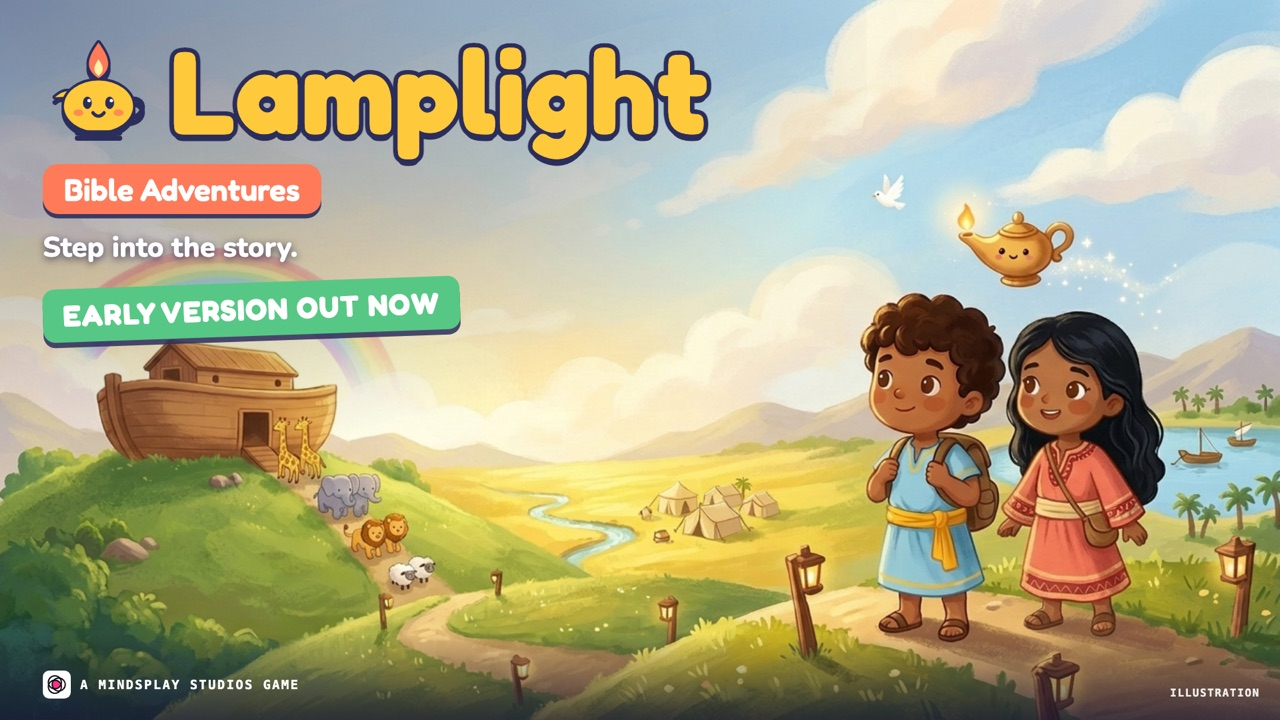
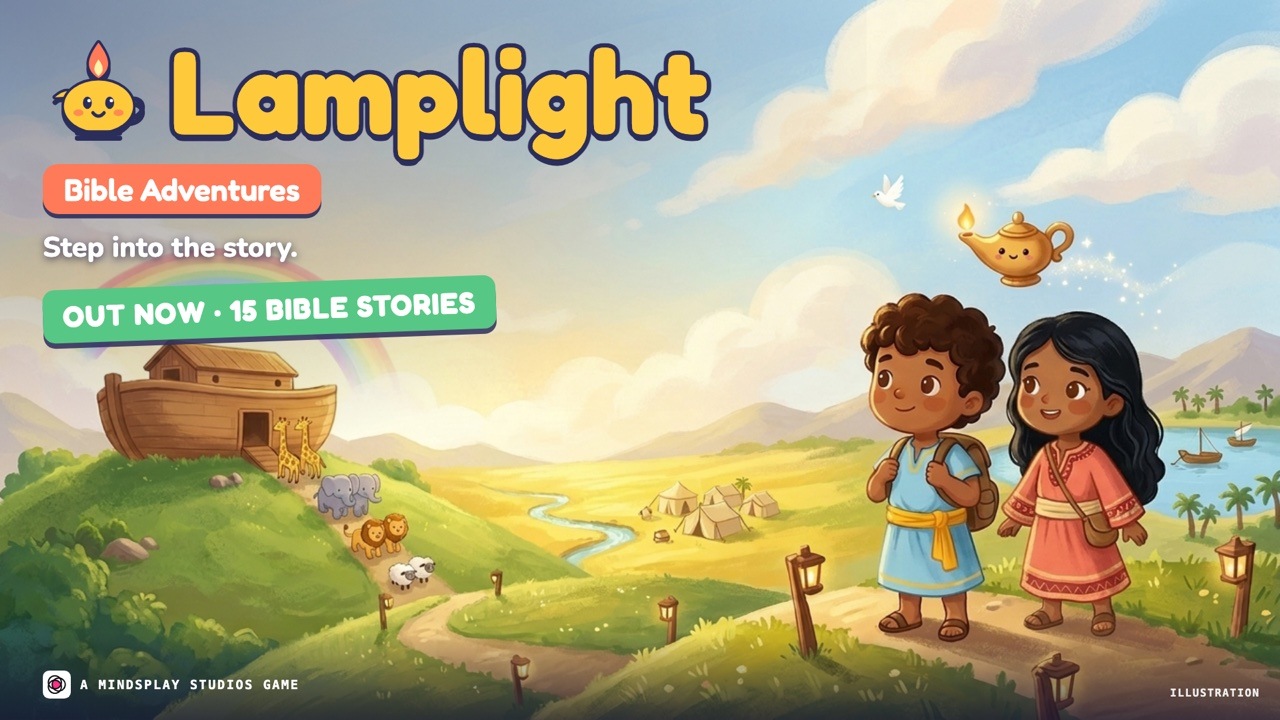
Lamplight 1.0: fifteen stories, out now

Changed region(s): [[0.0312, 0.3667, 0.4062, 0.4889]]

diff --git a/lamplight.html b/lamplight.html
@@ -4,7 +4,7 @@
 <meta charset="utf-8">
 <meta name="viewport" content="width=device-width, initial-scale=1, viewport-fit=cover">
 <title>Lamplight: Bible Adventures game for kids | MindsPlay Studios</title>
-<meta name="description" content="Lamplight: Bible Adventures. Step into the story. An open-world 3D Bible adventure for ages 6 to 12 on Mac and Windows, with six stories, every line read aloud, stickers and memory verses. A MindsPlay Studios game.">
+<meta name="description" content="Lamplight: Bible Adventures. Step into the story. An open-world 3D Bible adventure for ages 6 to 12 on Mac and Windows, with fifteen stories, every line read aloud, stickers and memory verses. A MindsPlay Studios game.">
 <link rel="icon" href="img/icons/lamplight.png">
 <link rel="stylesheet" href="https://fonts.googleapis.com/css2?family=Fredoka:wght@500;600;700&family=Nunito:wght@400;600;700;800&display=swap">
 <style>
@@ -185,7 +185,7 @@ footer .flinks { display:flex; flex-wrap:wrap; gap:16px; font-weight:700 }
 <meta property="og:site_name" content="MindsPlay Studios">
 <meta property="og:url" content="https://mindsplaystudiogh.com/lamplight.html">
 <meta property="og:title" content="Lamplight: Bible Adventures game for kids | MindsPlay Studios">
-<meta property="og:description" content="Lamplight: Bible Adventures. Step into the story. An open-world 3D Bible adventure for ages 6 to 12 on Mac and Windows, with six stories, every line read aloud, stickers and memory verses. A MindsPlay Studios game.">
+<meta property="og:description" content="Lamplight: Bible Adventures. Step into the story. An open-world 3D Bible adventure for ages 6 to 12 on Mac and Windows, with fifteen stories, every line read aloud, stickers and memory verses. A MindsPlay Studios game.">
 <meta property="og:image" content="https://mindsplaystudiogh.com/img/og-lamplight.jpg">
 <meta property="og:image:width" content="1200">
 <meta property="og:image:height" content="630">
@@ -193,9 +193,9 @@ footer .flinks { display:flex; flex-wrap:wrap; gap:16px; font-weight:700 }
 <meta property="og:locale" content="en_GH">
 <meta name="twitter:card" content="summary_large_image">
 <meta name="twitter:title" content="Lamplight: Bible Adventures game for kids | MindsPlay Studios">
-<meta name="twitter:description" content="Lamplight: Bible Adventures. Step into the story. An open-world 3D Bible adventure for ages 6 to 12 on Mac and Windows, with six stories, every line read aloud, stickers and memory verses. A MindsPlay Studios game.">
+<meta name="twitter:description" content="Lamplight: Bible Adventures. Step into the story. An open-world 3D Bible adventure for ages 6 to 12 on Mac and Windows, with fifteen stories, every line read aloud, stickers and memory verses. A MindsPlay Studios game.">
 <meta name="twitter:image" content="https://mindsplaystudiogh.com/img/og-lamplight.jpg">
-<script type="application/ld+json">{"@context": "https://schema.org", "@type": "VideoGame", "name": "Lamplight: Bible Adventures", "url": "https://mindsplaystudiogh.com/lamplight.html", "image": "https://mindsplaystudiogh.com/img/og-lamplight.jpg", "description": "Lamplight: Bible Adventures. Step into the story. An open-world 3D Bible adventure for ages 6 to 12 on Mac and Windows, with six stories, every line read aloud, stickers and memory verses. A MindsPlay Studios game.", "genre": ["Educational", "Bible stories"], "about": "Bible stories", "inLanguage": "en", "typicalAgeRange": "6-12", "audience": {"@type": "PeopleAudience", "suggestedMinAge": 6, "suggestedMaxAge": 12}, "publisher": {"@type": "Organization", "name": "MindsPlay Studios", "url": "https://mindsplaystudiogh.com/"}, "creativeWorkStatus": "In development", "gamePlatform": ["Windows", "macOS"]}</script>
+<script type="application/ld+json">{"@context": "https://schema.org", "@type": "VideoGame", "name": "Lamplight: Bible Adventures", "url": "https://mindsplaystudiogh.com/lamplight.html", "image": "https://mindsplaystudiogh.com/img/og-lamplight.jpg", "description": "Lamplight: Bible Adventures. Step into the story. An open-world 3D Bible adventure for ages 6 to 12 on Mac and Windows, with fifteen stories, every line read aloud, stickers and memory verses. A MindsPlay Studios game.", "genre": ["Educational", "Bible stories"], "about": "Bible stories", "inLanguage": "en", "typicalAgeRange": "6-12", "audience": {"@type": "PeopleAudience", "suggestedMinAge": 6, "suggestedMaxAge": 12}, "publisher": {"@type": "Organization", "name": "MindsPlay Studios", "url": "https://mindsplaystudiogh.com/"}, "creativeWorkStatus": "In development", "gamePlatform": ["Windows", "macOS"]}</script>
 </head>
 <body>
 
@@ -203,7 +203,7 @@ footer .flinks { display:flex; flex-wrap:wrap; gap:16px; font-weight:700 }
   <div class="wrap">
     <a class="back" href="index.html" aria-label="Back to MindsPlay Studios">← <span>MindsPlay</span></a>
     <a class="brand" href="#top" aria-label="Lamplight: Bible Adventures, back to top"><img src="img/lamplight/logo.png" alt="Lamplight: Bible Adventures" width="640" height="173"></a>
-    <nav aria-label="Lamplight"><a href="#about">The game</a><a href="#stories">Six stories</a><a href="#play">Try it</a><a href="#prices">Prices</a><a href="account.html">Parents</a></nav>
+    <nav aria-label="Lamplight"><a href="#about">The game</a><a href="#stories">15 stories</a><a href="#play">Try it</a><a href="#prices">Prices</a><a href="account.html">Parents</a></nav>
     <a class="btn sun" href="player.html#new">Join<span class="long">&nbsp;as a player</span></a>
   </div>
 </header>
@@ -215,13 +215,13 @@ footer .flinks { display:flex; flex-wrap:wrap; gap:16px; font-weight:700 }
     <a class="endorse" href="index.html"><img src="img/mark.svg" alt="" width="22" height="22">A MindsPlay Studios game</a>
     <span class="status" id="status" hidden></span>
     <h1 id="h1">Step into <span>the story.</span></h1>
-    <p class="lede">Lamplight is an open-world 3D Bible adventure for children aged 6 to 12. Walk into six Bible stories, meet the people in them and help with the very things each story describes. Lumi, a little clay lamp, lights the way and reads every line aloud.</p>
+    <p class="lede">Lamplight is an open-world 3D Bible adventure for children aged 6 to 12. Walk into fifteen Bible stories, meet the people in them and help with the very things each story describes. Lumi, a little clay lamp, lights the way and reads every line aloud.</p>
     <div class="ctas">
       <a class="btn sun" href="lamplight-play.html">Play free in your browser</a>
       <a class="btn plain" href="lamplight-download.html">Download for Windows / Mac</a>
       <a class="btn plain" href="player.html#new">Make my player account</a>
     </div>
-    <div class="facts"><span><b>6</b> Bible stories</span><span><b>6–12</b> years</span><span><b>Mac</b> and <b>Windows</b></span><span><b>0</b> ads</span></div>
+    <div class="facts"><span><b>15</b> Bible stories</span><span><b>6–12</b> years</span><span><b>Mac</b> and <b>Windows</b></span><span><b>0</b> ads</span></div>
   </div>
 </section>
 
@@ -241,10 +241,10 @@ footer .flinks { display:flex; flex-wrap:wrap; gap:16px; font-weight:700 }
     <aside class="card" aria-label="Lamplight at a glance">
       <div class="ttl"><img src="img/icons/lamplight.png" alt="" width="64" height="64"><div><h3>Lamplight</h3><p>Open-world Bible adventure</p></div></div>
       <div class="stats">
-        <div class="stat"><b>6</b><span>Bible stories</span></div>
-        <div class="stat"><b>2</b><span>chapters</span></div>
-        <div class="stat"><b>6</b><span>stickers to collect</span></div>
-        <div class="stat"><b>6</b><span>memory verses</span></div>
+        <div class="stat"><b>15</b><span>Bible stories</span></div>
+        <div class="stat"><b>2–3</b><span>hours of play</span></div>
+        <div class="stat"><b>15</b><span>stickers to collect</span></div>
+        <div class="stat"><b>15</b><span>memory verses</span></div>
       </div>
       <div class="chips"><span>Ages 6–12</span><span>Windows</span><span>Mac</span><span>Read aloud</span><span>Hymn-tune music</span><span>No ads</span></div>
       <a class="btn sun" href="player.html#new">Make my player account</a>
@@ -257,8 +257,8 @@ footer .flinks { display:flex; flex-wrap:wrap; gap:16px; font-weight:700 }
   <div class="wrap">
     <div class="head">
       <span class="eyebrow">The stories</span>
-      <h2 id="stories-h">Six stories in two chapters.</h2>
-      <p>Each story is told closely from the Bible in simple words. Choose a story to see it in the game.</p>
+      <h2 id="stories-h">Fifteen stories to step into.</h2>
+      <p>Each story is told closely from the Bible in simple words, and Lumi asks two questions at the end. Choose one of the first six to see it in the game.</p>
     </div>
     <div class="chapters" role="tablist" aria-label="Stories" id="tabs">
       <div class="chapter"><h3>Chapter 1</h3><div class="tabs">
@@ -314,6 +314,7 @@ footer .flinks { display:flex; flex-wrap:wrap; gap:16px; font-weight:700 }
       <div class="sticker"><i style="background:#3E6FB5;color:#fff">★</i>Peace sticker</div>
       <blockquote>“Peace! Be still!” The wind ceased, and there was a great calm.<cite>Mark 4:39</cite></blockquote></div>
     </article>
+    <p style="margin-top:22px"><b>And nine more in version 1.0:</b> Baby Moses, Joshua and Jericho, Samuel Hears God’s Call, Ruth and Naomi, The First Christmas, The Wise Builder, The Good Samaritan, Zacchaeus and The Lost Coin.</p>
   </div>
 </section>
 
@@ -385,7 +386,7 @@ footer .flinks { display:flex; flex-wrap:wrap; gap:16px; font-weight:700 }
       <h2 id="prices-h">Who is it for?</h2>
     </div>
     <div class="who">
-      <article><span class="role" style="background:var(--sky)">Player</span><h3>Your own adventure</h3><ul><li>Make your player account and add Lamplight to your games</li><li>Sign in with your name and secret pictures</li><li>Collect all six stickers and memory verses</li><li>Ask a parent to unlock it for you</li></ul><a class="btn sun" href="player.html#new">Make my player account</a><a class="link" href="player.html#signin">Already a player? Sign in</a></article>
+      <article><span class="role" style="background:var(--sky)">Player</span><h3>Your own adventure</h3><ul><li>Make your player account and add Lamplight to your games</li><li>Sign in with your name and secret pictures</li><li>Collect all fifteen stickers and memory verses</li><li>Ask a parent to unlock it for you</li></ul><a class="btn sun" href="player.html#new">Make my player account</a><a class="link" href="player.html#signin">Already a player? Sign in</a></article>
       <article><span class="role" style="background:var(--sun)">Parent</span><h3>Home access</h3><div class="price">GHS 49 <small>/ month</small></div><ul><li>First week free, then pay by Mobile Money or card</li><li>Or GHS 490 a year, less for each extra child</li><li>Add Lamplight for each child from one parent account</li><li>No ads, no in-game purchases, no strangers</li></ul><a class="btn sun" href="account.html">Add it to your child’s games</a></article>
       <article><span class="role" style="background:var(--leaf)">Schools and churches</span><h3>Free preview</h3><div class="price">Free <small>preview planned</small></div><ul><li>A free preview for schools and churches is planned</li><li>Fits Religious and Moral Education, Sunday school, children’s services and holiday clubs</li><li>We can visit, set it up and show you the game</li><li>Tell us which Bible stories to add next</li></ul><a class="btn sun" href="mailto:hello@mindsplaystudiogh.com?subject=Lamplight%20for%20our%20school%20or%20church">Talk to us by email</a><a class="btn plain" href="https://wa.me/233248932204" target="_blank" rel="noopener">Talk to us on WhatsApp</a></article>
     </div>

diff --git a/lamplight-play.html b/lamplight-play.html
@@ -4,7 +4,7 @@
 <meta charset="utf-8">
 <meta name="viewport" content="width=device-width, initial-scale=1, viewport-fit=cover">
 <title>Play the free demo · Lamplight</title>
-<meta name="description" content="Play Lamplight in your browser. Explore six Bible stories with Lumi, a little lamp who reads every line aloud: from Noah’s Ark to Jesus Calms the Storm. Help the people of each story, then earn a memory verse and a sticker. The first two stories are free for everyone; sign in inside the game with your MindsPlay class code for all six.">
+<meta name="description" content="Play Lamplight in your browser. Walk through fifteen Bible stories in one bright open world with Lumi, a little lamp who reads every line aloud. Help Noah fill the ark, march around Jericho, follow the star to Bethlehem and more, then earn a sticker and a memory verse for each story. The first two stories are free for everyone; sign in inside the game with your MindsPlay class code for all fifteen.">
 <link rel="icon" href="img/icons/lamplight.png">
 <link rel="stylesheet" href="https://fonts.googleapis.com/css2?family=Baloo+2:wght@600;800&family=Lexend:wght@400;500;600&family=Silkscreen&display=swap">
 <link rel="stylesheet" href="app.css">
@@ -26,7 +26,7 @@
 <meta property="og:site_name" content="MindsPlay Studios">
 <meta property="og:url" content="https://mindsplaystudiogh.com/lamplight-play.html">
 <meta property="og:title" content="Play the free demo · Lamplight">
-<meta property="og:description" content="Play Lamplight in your browser. Explore six Bible stories with Lumi, a little lamp who reads every line aloud: from Noah’s Ark to Jesus Calms the Storm. Help the people of each story, then earn a memory verse and a sticker. The first two stories are free for everyone; sign in inside the game with your MindsPlay class code for all six.">
+<meta property="og:description" content="Play Lamplight in your browser. Walk through fifteen Bible stories in one bright open world with Lumi, a little lamp who reads every line aloud. Help Noah fill the ark, march around Jericho, follow the star to Bethlehem and more, then earn a sticker and a memory verse for each story. The first two stories are free for everyone; sign in inside the game with your MindsPlay class code for all fifteen.">
 <meta property="og:image" content="https://mindsplaystudiogh.com/img/og-lamplight.jpg">
 <meta property="og:image:width" content="1200">
 <meta property="og:image:height" content="630">
@@ -34,7 +34,7 @@
 <meta property="og:locale" content="en_GH">
 <meta name="twitter:card" content="summary_large_image">
 <meta name="twitter:title" content="Play the free demo · Lamplight">
-<meta name="twitter:description" content="Play Lamplight in your browser. Explore six Bible stories with Lumi, a little lamp who reads every line aloud: from Noah’s Ark to Jesus Calms the Storm. Help the people of each story, then earn a memory verse and a sticker. The first two stories are free for everyone; sign in inside the game with your MindsPlay class code for all six.">
+<meta name="twitter:description" content="Play Lamplight in your browser. Walk through fifteen Bible stories in one bright open world with Lumi, a little lamp who reads every line aloud. Help Noah fill the ark, march around Jericho, follow the star to Bethlehem and more, then earn a sticker and a memory verse for each story. The first two stories are free for everyone; sign in inside the game with your MindsPlay class code for all fifteen.">
 <meta name="twitter:image" content="https://mindsplaystudiogh.com/img/og-lamplight.jpg">
 </head>
 <body>
@@ -42,7 +42,7 @@
   <div class="stack" style="gap:8px">
     <span class="tag">Free demo · no download</span>
     <h1>Play Lamplight in your browser</h1>
-    <p class="lead">Explore six Bible stories with Lumi, a little lamp who reads every line aloud: from Noah’s Ark to Jesus Calms the Storm. Help the people of each story, then earn a memory verse and a sticker. The first two stories are free for everyone; sign in inside the game with your MindsPlay class code for all six. Best on a laptop or desktop with a keyboard and mouse.</p>
+    <p class="lead">Walk through fifteen Bible stories in one bright open world with Lumi, a little lamp who reads every line aloud. Help Noah fill the ark, march around Jericho, follow the star to Bethlehem and more, then earn a sticker and a memory verse for each story. The first two stories are free for everyone; sign in inside the game with your MindsPlay class code for all fifteen. Best on a laptop or desktop with a keyboard and mouse.</p>
   </div>
   <div class="stage" id="stage">
     <canvas id="unity" tabindex="-1" aria-label="Lamplight game"></canvas>
@@ -57,23 +57,24 @@
   </div>
   <ul class="keys">
     <li><b>Move</b>WASD or arrow keys</li>
-    <li><b>Run / jump</b>Shift / Space</li>
-    <li><b>Talk, pick up, share</b>E or Enter</li>
-    <li><b>Look</b>Q and R, or right mouse button</li>
+    <li><b>Look</b>Move the mouse</li>
+    <li><b>Talk and use</b>E or click</li>
+    <li><b>Jump</b>Space</li>
+    <li><b>Answer Lumi’s questions</b>1, 2 or 3</li>
     <li><b>Pause</b>P</li>
   </ul>
   <div class="grid2">
     <a class="card" href="lamplight-download.html?from=play" style="text-decoration:none;color:inherit"><h3>Download Lamplight</h3><p class="muted">The same game for Windows and Mac. Runs smoother and plays without internet.</p></a>
     <a class="card" href="lamplight.html" style="text-decoration:none;color:inherit"><h3>About Lamplight</h3><p class="muted">What it is, who it is for and what it teaches.</p></a>
   </div>
-  <p class="small muted">This is an early demo and we are still building. Tell us what you think: <a href="mailto:hello@mindsplaystudiogh.com?subject=Lamplight">hello@mindsplaystudiogh.com</a></p>
+  <p class="small muted">Tell us what you think: <a href="mailto:hello@mindsplaystudiogh.com?subject=Lamplight">hello@mindsplaystudiogh.com</a></p>
 </main>
 <script src="app.js"></script>
 <script>
 topBar('<a href="lamplight.html" class="hide-sm">About Lamplight</a><a href="lamplight-download.html?from=play">Download</a><a href="index.html#games">All games</a>', 'Lamplight');
 const BUILD = API + '/play/lamplight/Build/';
 // Changes with every new build so browsers never reuse an old copy of the game files.
-const V = '?v=202611270317';
+const V = '?v=202611270506';
 const mobile = /Android|iPhone|iPad|iPod/i.test(navigator.userAgent);
 if (mobile) $('#covertext').textContent = 'Lamplight is made for computers. On a phone the demo may be slow and needs a keyboard. For the best time, open this page on a laptop or desktop.';
 
@@ -81,7 +82,7 @@ let instance;
 $('#start').addEventListener('click', () => {
   $('#start').hidden = true;
   $('#meter').hidden = false;
-  $('#covertext').textContent = 'Loading Lamplight… (about 87 MB the first time, then it’s saved)';
+  $('#covertext').textContent = 'Loading Lamplight… (about 100 MB the first time, then it’s saved)';
   const s = document.createElement('script');
   s.src = BUILD + 'lamplight.loader.js' + V;
   s.onerror = () => { $('#err').textContent = 'The demo couldn’t load. Check your connection and refresh the page.'; };

diff --git a/lamplight-download.html b/lamplight-download.html
@@ -4,7 +4,7 @@
 <meta charset="utf-8">
 <meta name="viewport" content="width=device-width, initial-scale=1, viewport-fit=cover">
 <title>Download Lamplight · MindsPlay Studios</title>
-<meta name="description" content="Download Lamplight: Bible Adventures for Windows or Mac. Six Bible stories to explore, with every line read aloud.">
+<meta name="description" content="Download Lamplight: Bible Adventures for Windows or Mac. Fifteen Bible stories to explore, with every line read aloud.">
 <link rel="icon" href="img/icons/lamplight.png">
 <link rel="stylesheet" href="https://fonts.googleapis.com/css2?family=Baloo+2:wght@600;800&family=Lexend:wght@400;500;600&family=Silkscreen&display=swap">
 <link rel="stylesheet" href="app.css">
@@ -13,7 +13,7 @@
 <meta property="og:site_name" content="MindsPlay Studios">
 <meta property="og:url" content="https://mindsplaystudiogh.com/lamplight-download.html">
 <meta property="og:title" content="Download Lamplight · MindsPlay Studios">
-<meta property="og:description" content="Download Lamplight: Bible Adventures for Windows or Mac. Six Bible stories to explore, with every line read aloud.">
+<meta property="og:description" content="Download Lamplight: Bible Adventures for Windows or Mac. Fifteen Bible stories to explore, with every line read aloud.">
 <meta property="og:image" content="https://mindsplaystudiogh.com/img/og-lamplight.jpg">
 <meta property="og:image:width" content="1200">
 <meta property="og:image:height" content="630">
@@ -21,20 +21,20 @@
 <meta property="og:locale" content="en_GH">
 <meta name="twitter:card" content="summary_large_image">
 <meta name="twitter:title" content="Download Lamplight · MindsPlay Studios">
-<meta name="twitter:description" content="Download Lamplight: Bible Adventures for Windows or Mac. Six Bible stories to explore, with every line read aloud.">
+<meta name="twitter:description" content="Download Lamplight: Bible Adventures for Windows or Mac. Fifteen Bible stories to explore, with every line read aloud.">
 <meta name="twitter:image" content="https://mindsplaystudiogh.com/img/og-lamplight.jpg">
 </head>
 <body>
 <main class="wrap stack">
   <div class="stack" style="gap:8px">
-    <span class="tag">Early version · Windows · Mac</span>
+    <span class="tag">Out now · Version 1.0 · Windows · Mac</span>
     <h1>Download Lamplight</h1>
-    <p class="lead">An early version of Lamplight: Bible Adventures with six stories, from Noah’s Ark to Jesus Calms the Storm. Lumi, a little lamp, reads every line aloud. Anyone can play the first two stories; sign in inside the game with your MindsPlay class code for all six. Progress is saved on the computer, and after signing in once it plays without internet.</p>
+    <p class="lead">Lamplight: Bible Adventures, version 1.0, with fifteen stories from Noah’s Ark to The Lost Coin and about 2 to 3 hours of play. Lumi, a little lamp, reads every line aloud. Anyone can play the first two stories; sign in inside the game with your MindsPlay class code for all fifteen. Progress is saved on the computer, and after signing in once it plays without internet.</p>
   </div>
   <div class="grid2">
     <div class="card gold">
       <h2>Windows</h2>
-      <p class="muted">Windows 10 or 11, 64-bit. About 95 MB.</p>
+      <p class="muted">Windows 10 or 11, 64-bit. About 98 MB.</p>
       <a class="btn" id="win" href="#">Download for Windows</a>
       <ol class="small muted" style="margin:0;padding-left:20px">
         <li>Open the downloaded <b>Lamplight-Windows.zip</b> and choose <b>Extract all</b>.</li>
@@ -44,7 +44,7 @@
     </div>
     <div class="card">
       <h2>Mac</h2>
-      <p class="muted">macOS 11 or newer, Apple silicon or Intel. About 103 MB.</p>
+      <p class="muted">macOS 11 or newer, Apple silicon or Intel. About 106 MB.</p>
       <a class="btn" id="mac" href="#">Download for Mac</a>
       <ol class="small muted" style="margin:0;padding-left:20px">
         <li>Open <b>Lamplight-Mac.zip</b> and drag <b>Lamplight</b> into Applications.</li>
@@ -56,10 +56,10 @@
   </div>
   <div class="card">
     <h3>How to play</h3>
-    <p class="muted">Move with <b>WASD</b> or the arrow keys, hold <b>Shift</b> to run and press <b>Space</b> to jump. Press <b>E</b> or <b>Enter</b> to talk, pick up and share. Look around with <b>Q</b> and <b>R</b>, or hold the right mouse button. <b>Esc</b> or <b>P</b> pauses. A gamepad works too.</p>
+    <p class="muted">Move with <b>WASD</b> or the arrow keys and look around with the mouse. Press <b>E</b> or click to talk and use things, and <b>Space</b> to jump. Answer Lumi’s questions with <b>1</b>, <b>2</b> or <b>3</b>. <b>P</b> pauses.</p>
     <div class="row"><a class="btn ghost small" href="lamplight-play.html">Or play in your browser</a><a class="btn ghost small" href="lamplight.html">About Lamplight</a></div>
   </div>
-  <p class="small muted">This is an early version and we are still building. Questions or ideas? <a href="mailto:hello@mindsplaystudiogh.com?subject=Lamplight">hello@mindsplaystudiogh.com</a></p>
+  <p class="small muted">Questions or ideas? <a href="mailto:hello@mindsplaystudiogh.com?subject=Lamplight">hello@mindsplaystudiogh.com</a></p>
 </main>
 <script src="app.js"></script>
 <script>

diff --git a/index.html b/index.html
@@ -408,12 +408,12 @@ canvas#fx { position:fixed; inset:0; pointer-events:none; z-index:40 }
         </div>
       </article>
       <article class="gcard half wide">
-        <div class="gart"><img src="img/g-lamplight.jpg" alt="Lamplight: two young explorers and a little glowing lamp look out over Noah's ark, a rainbow and a lake. Early version out now." loading="lazy"></div>
+        <div class="gart"><img src="img/g-lamplight.jpg" alt="Lamplight: two young explorers and a little glowing lamp look out over Noah's ark, a rainbow and a lake. Out now, 15 Bible stories." loading="lazy"></div>
         <div class="gbody">
-          <div class="meta"><span class="live">Early version</span><span>Ages 6–12</span><span>Open-world adventure</span><span>Windows · Mac · Browser</span></div>
+          <div class="meta"><span class="live">Out now</span><span>Ages 6–12</span><span>Open-world adventure</span><span>Windows · Mac · Browser</span></div>
           <h3>Lamplight</h3>
           <p>Step into the world of the Bible. Meet its people, help them with the tasks from each story and earn a sticker and a memory verse at the end. Lumi, a little lamp, guides you, and every line is read aloud.</p>
-          <p class="skills">Six stories so far: Noah’s Ark, David and Goliath, Five Loaves and Two Fish, The Lost Sheep, Daniel and the Lions and Jesus Calms the Storm. A free preview for schools and churches is planned.</p>
+          <p class="skills">Fifteen stories, from Noah’s Ark and David and Goliath to The First Christmas and The Good Samaritan. The first two are free for everyone.</p>
           <div class="row"><a class="btn pink" href="lamplight-play.html"><span class="tri"></span>Play free in your browser</a><a class="more" href="lamplight-download.html">Download <span aria-hidden="true">→</span></a><a class="more" href="lamplight.html">Know more <span aria-hidden="true">→</span></a><button class="hype" type="button" data-game="lamplight" aria-pressed="false">Hype it</button></div>
         </div>
       </article>

diff --git a/graned-play.html b/graned-play.html
@@ -74,7 +74,7 @@
 topBar('<a href="graned.html" class="hide-sm">About GranED Prix</a><a href="graned-download.html?from=play">Download</a><a href="index.html#games">All games</a>', 'GranED Prix');
 const BUILD = API + '/play/graned/Build/';
 // Changes with every new build so browsers never reuse an old copy of the game files.
-const V = '?v=202611270317';
+const V = '?v=202611270506';
 const mobile = /Android|iPhone|iPad|iPod/i.test(navigator.userAgent);
 if (mobile) $('#covertext').textContent = 'GranED Prix is made for computers. On a phone the demo may be slow and needs a keyboard. For the best time, open this page on a laptop or desktop.';
 

diff --git a/inkbound-play.html b/inkbound-play.html
@@ -73,7 +73,7 @@
 topBar('<a href="inkbound.html" class="hide-sm">About Inkbound</a><a href="inkbound-download.html?from=play">Download</a><a href="index.html#games">All games</a>', 'Inkbound');
 const BUILD = API + '/play/inkbound/Build/';
 // Changes with every new build so browsers never reuse an old copy of the game files.
-const V = '?v=202611270317';
+const V = '?v=202611270506';
 const mobile = /Android|iPhone|iPad|iPod/i.test(navigator.userAgent);
 if (mobile) $('#covertext').textContent = 'Inkbound is made for computers. On a phone the demo may be slow and needs a keyboard. For the best time, open this page on a laptop or desktop.';
 

diff --git a/sworld-play.html b/sworld-play.html
@@ -73,7 +73,7 @@
 topBar('<a href="sworld.html" class="hide-sm">About Sworld</a><a href="sworld-download.html?from=play">Download</a><a href="index.html#games">All games</a>', 'Sworld');
 const BUILD = API + '/play/sworld/Build/';
 // Changes with every new build so browsers never reuse an old copy of the game files.
-const V = '?v=202611270317';
+const V = '?v=202611270506';
 const mobile = /Android|iPhone|iPad|iPod/i.test(navigator.userAgent);
 if (mobile) $('#covertext').textContent = 'Sworld is made for computers. On a phone the demo may be slow and needs a keyboard or gamepad. For the best fight, open this page on a laptop or desktop.';
 

diff --git a/brightside-play.html b/brightside-play.html
@@ -73,7 +73,7 @@
 topBar('<a href="brightside.html" class="hide-sm">About Brightside</a><a href="brightside.html">Download</a><a href="index.html#games">All games</a>', 'Brightside');
 const BUILD = API + '/play/brightside/Build/';
 // Changes with every new build so browsers never reuse an old copy of the game files.
-const V = '?v=202611270317';
+const V = '?v=202611270506';
 const mobile = /Android|iPhone|iPad|iPod/i.test(navigator.userAgent);
 if (mobile) $('#covertext').textContent = 'Brightside is made for computers. On a phone the demo may be slow and needs a keyboard. For the best time, open this page on a laptop or desktop.';
 
